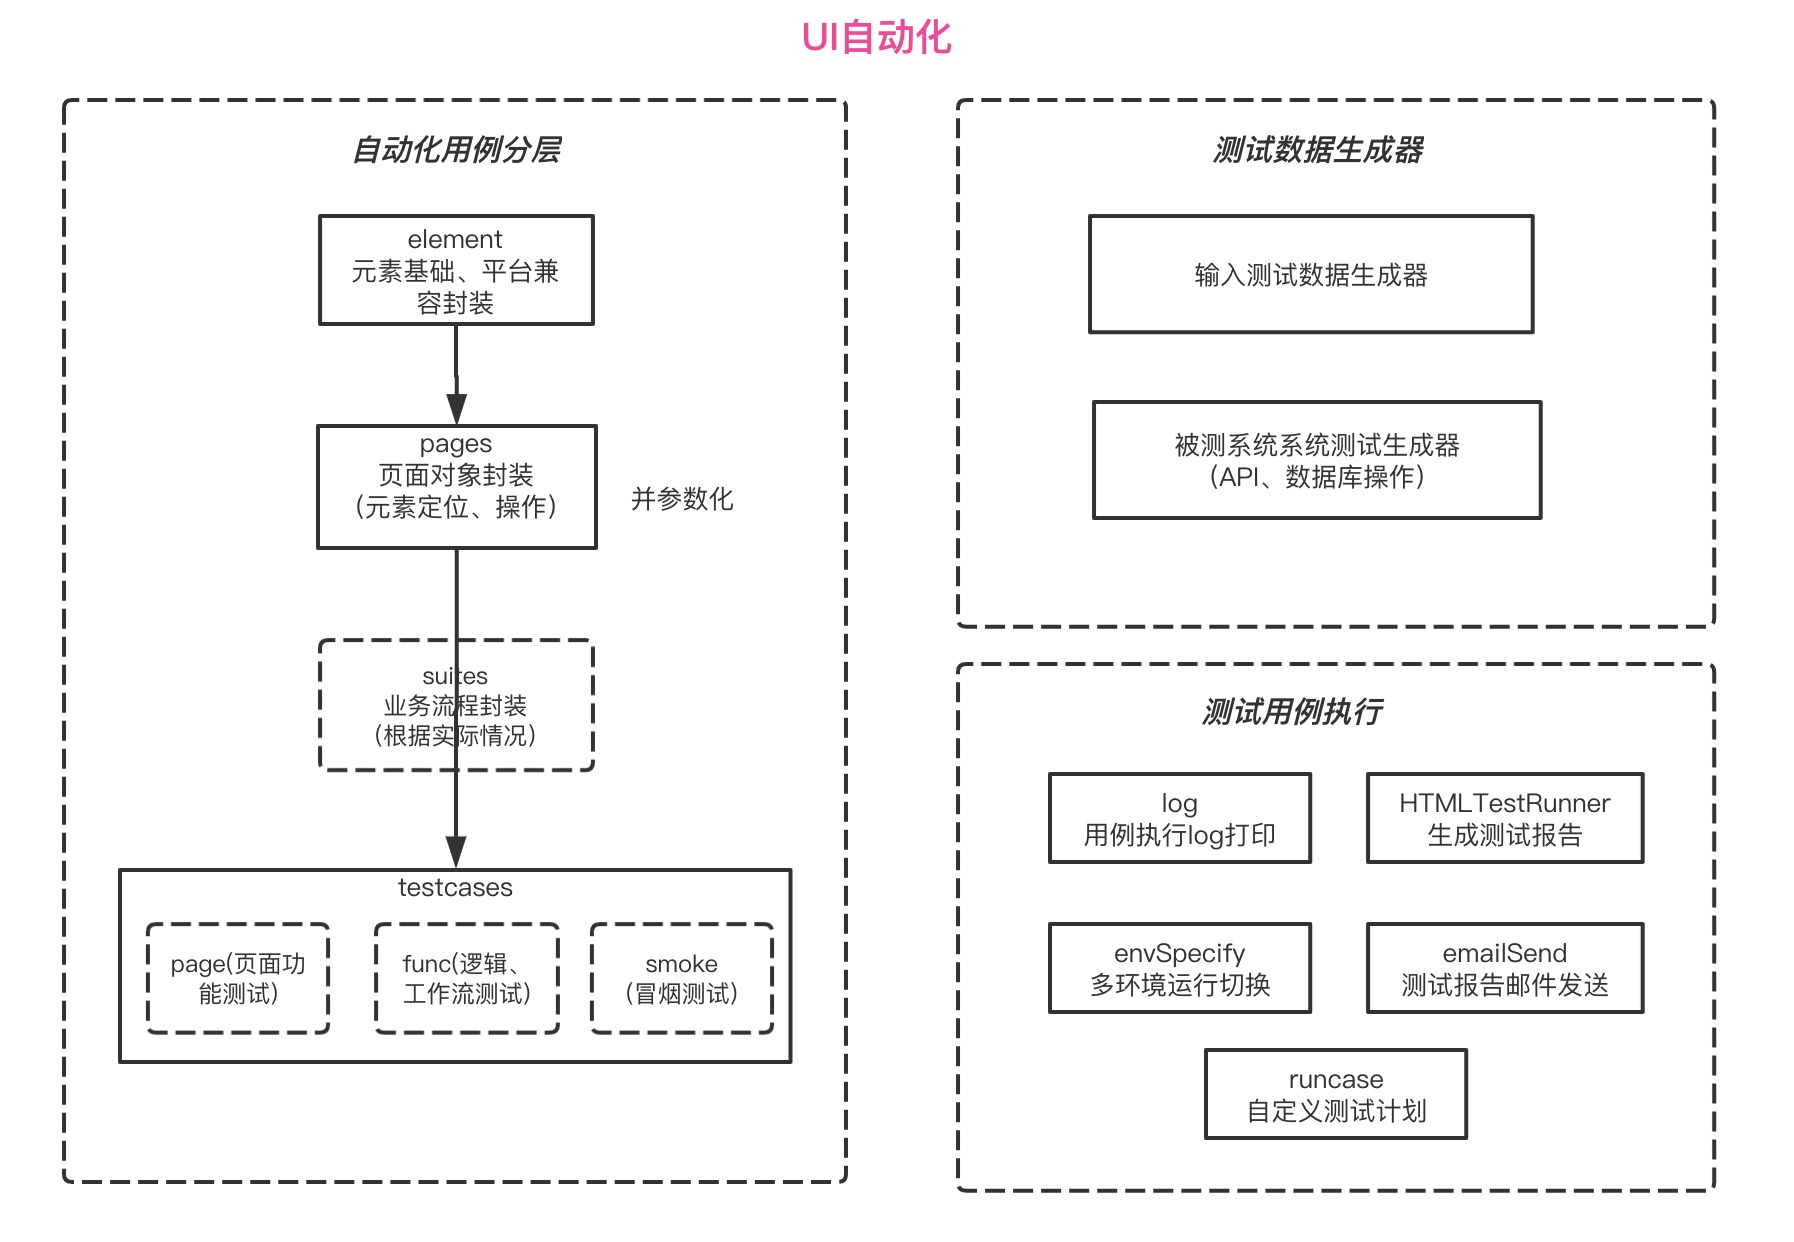
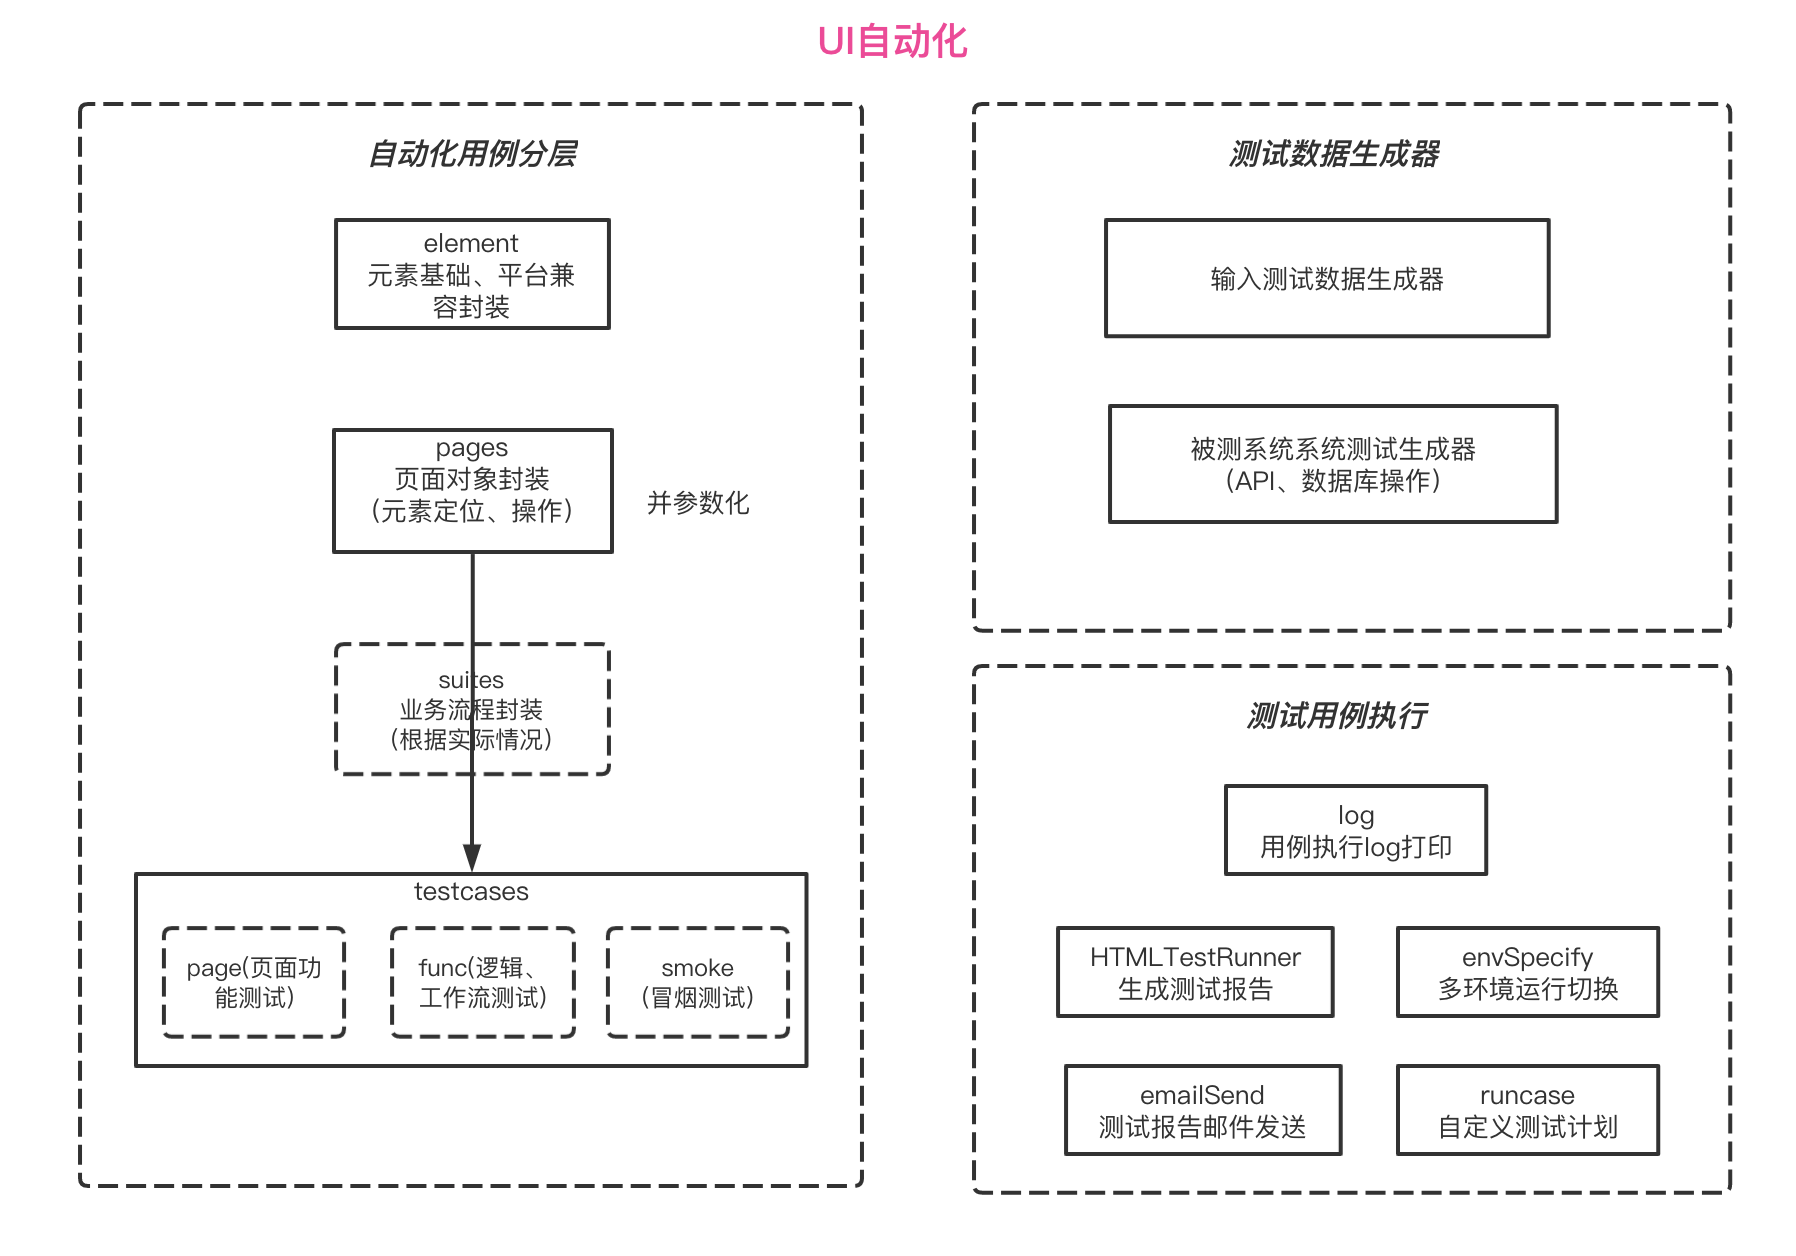
upadte

diff --git a/common/__init__.py b/common/__init__.py
@@ -1,59 +1,90 @@
 # -*- coding: utf-8 -
 import os
-
+import yaml
 cur_path = os.path.dirname(os.path.dirname(os.path.realpath(__file__)))
+
+
+class File:
+    def __init__(self, path):
+        self.path = path
+
+    def read_yaml_file(self):
+        with open(self.path, 'r', encoding='utf-8') as file:
+            # 使用load方法将读出的字符串转字典
+            content = yaml.full_load(file)
+            file.close()
+        return content
+
+    def create_yaml_file(self, content):
+        # 判断文件是否存在，不存在则创建，并填写默认值
+        if not os.path.exists(self.path):
+            with open(self.path, 'w', encoding='utf-8') as file:
+                # 写入内容
+                file.write(content)
+            file.close()
+
+    def create_file(self):
+        # 判断文件是否存在，不存在则创建
+        if not os.path.exists(self.path):
+            os.mkdir(self.path)
+
+
+# 测试结果文件存储位置
 result_path = os.path.join(cur_path, "result")
 logs_path = os.path.join(result_path, 'logs')
 reports_path = os.path.join(result_path, "reports")
-
-# 如果不存在这个result文件夹，就创建一个
-if not os.path.exists(result_path):
-    os.mkdir(result_path)
-# 如果没有result/logs文件夹，就创建一个
-if not os.path.exists(logs_path):
-    os.mkdir(logs_path)
-# 如果没有result/reports文件夹，就创建一个
-if not os.path.exists(reports_path):
-    os.mkdir(reports_path)
-
+# 配置文件位置
 config_path = os.path.join(cur_path, 'config')
 env_yaml_path = os.path.join(config_path, 'env.yaml')
 email_yaml_path = os.path.join(config_path, 'email.yaml')
 android_path = os.path.join(config_path, 'android.yaml')
 
-# 如果没有config文件夹，就创建一个
-if not os.path.exists(config_path):
-    os.mkdir(config_path)  # 创建config文件夹
+# 判断以上文件夹是否存在，不存在则创建
+for path in [result_path, logs_path, reports_path, config_path]:
+    File(path).create_file()
 
-# 如果没有config/email.yaml,自动创建并写入默认值
-if not os.path.exists(email_yaml_path):
-    with open(email_yaml_path, 'w', encoding='utf-8') as file:
-        file.write("# 邮箱配置\nemail_info:\n"
-                   "  server: xxx.xxx.xxx\n"
-                   "  sender: xxx@xxxxxx.com\n"
-                   "  password: xxxxxx\n"
-                   "  receiver: ['xxx@xxxxxx.com','xxx@xxxxxx.com']")
-    file.close()
+# 配置文件默认值
+email_yaml_content = "# 邮箱配置\nemail_info:\n" \
+                     "  server: xxx.xxx.xxx\n  sender: xxx@xxxxxx.com\n" \
+                     "  password: xxxxxx\n  receiver: ['xxx@xxxxxx.com','xxx@xxxxxx.com']"
+env_yaml_content = "# host环境IP\nhost: http://xxx.xx.x.xx\n" \
+                   "# mysql服务信息\nmysql_info:\n  ip: xxxx\n  port: 3306\n  account: xxxx\n  password: xxxx\n" \
+                   "# mongodb服务信息\nmongodb_info:\n  ip: xxxx\n  port: 27017\n  account: xxxx\n  password: xxxx\n"
+android_yaml_content = "app_info:\n" \
+                       "  # APP名称\n  appName: xxx\n" \
+                       "  # APP包名\n  appPackage: xxx\n" \
+                       "  # APP程序名\n  appActivity: xxx\n" \
+                       "device_info:\n" \
+                       "  # 设备版本号\n  platformVersion: 6.0\n" \
+                       "  # 设备id\n  deviceName: 192.168.58.104:5555\n" \
+                       "appium_info:\n" \
+                       "  #appium所在ip以及端口号\n  appiumIp: http://127.0.0.1:4723/wd/hub\n"
 
+# 判断以上文件夹是否存在，不存在则创建，并且填充默认值
+yaml_file = [{"path": email_yaml_path, "content": email_yaml_content},
+             {"path": env_yaml_path, "content": env_yaml_content},
+             {"path": android_path, "content": android_yaml_content}]
+for file in yaml_file:
+    File(file['path']).create_yaml_file(file['content'])
 
-# 如果没有config/env.yaml,自动创建并写入默认值
-if not os.path.exists(env_yaml_path):
-    with open(env_yaml_path, 'w', encoding='utf-8') as file:
-        file.write('# host环境IP\nhost: http://xxx.xx.x.xx\n'
-                   '# mysql服务信息\nmysql_info:\n  ip:xxxx\n  port: 3306\n  account: xxxx\n  password: xxxx\n'
-                   '# mongodb服务信息\nmongodb_info:\n  ip:xxxx\n  port: 3306\n  account: xxxx\n  password: xxxx\n')
-    file.close()
+# 读取配置文件
+android_content = File(android_path).read_yaml_file()
+email_content = File(email_yaml_path).read_yaml_file()
+env_content = File(env_yaml_path).read_yaml_file()
 
+# 邮箱信息
+email_info = email_content['email_info']
 
-if not os.path.exists(android_path):
-    with open(android_path, 'w', encoding='utf-8') as file:
-        file.write('app_info:\n'
-                   '  # APP名称\n  appName: xxx\n'
-                   '  # APP包名\n  appPackage: xxx\n'
-                   '  # APP程序名\n  appActivity: xxx\n'
-                   'device_info:\n'
-                   '  # 设备版本号\n  platformVersion: 6.0\n'
-                   '  # 设备id\n  deviceName: 192.168.58.104:5555\n'
-                   'appium_info:\n'
-                   '  #appium所在ip以及端口号\n  appiumIp: http://127.0.0.1:4723/wd/hub\n')
-    file.close()
+# APP信息
+app_info = android_content['app_info']
+# 设备信息
+device_info = android_content['device_info']
+# appium信息
+appium_info = android_content['appium_info']
+
+# host地址
+host = env_content['host']
+# mysql数据库信息
+mysql_info = env_content['mysql_info']
+# mongodb信息
+mongodb_info = env_content['mongodb_info']

diff --git a/features/element/baseView.py b/features/element/baseView.py
@@ -1,19 +1,15 @@
 # -*- coding: utf-8 -
-import os
 import sys
 import time
 from time import sleep
 from common import *
-from common.logger import Log
+from common.log.logger import Log
 from selenium.webdriver.common.by import By
 from selenium.webdriver import ActionChains
 from selenium.webdriver.common.keys import Keys
 from selenium.webdriver.support.ui import Select
 from selenium.webdriver.support.wait import WebDriverWait
-from selenium.webdriver.support import expected_conditions
 from selenium.common.exceptions import NoSuchElementException
-from appium.webdriver.common.touch_action import TouchAction
-from appium.webdriver.common.multi_action import MultiAction
 
 
 class View(object):

diff --git a/common/getDriver.py b/common/getDriver.py
@@ -3,8 +3,8 @@ import time
 from selenium import webdriver as selenium_webdriver
 from appium import webdriver as appium_webdriver
 from selenium.webdriver.chrome.options import Options
-from common.readConfig import *
-from common.logger import Log
+from common import *
+from common.log.logger import Log
 log = Log(logs_path, '%s.log' % time.strftime('%Y-%m-%d'))
 cur_path = os.path.dirname(os.path.dirname(os.path.realpath(__file__)))
 

diff --git a/main.py b/main.py
@@ -1,8 +1,7 @@
 # -*- coding: utf-8 -
 import argparse
-from runcase.envSpecify import EnvSpecify
-from runcase.emailSend import EmailSend
-from runcase.runcase import RunCase
+from common.run.envSpecify import EnvSpecify
+from common.run.runcase import RunCase
 
 
 parser = argparse.ArgumentParser()

diff --git a/common/run/runcase.py b/common/run/runcase.py
@@ -2,7 +2,7 @@
 import time
 import unittest
 from common import *
-from runcase.htmlTestRunner import HTMLTestRunner
+from common.run.htmlTestRunner import HTMLTestRunner
 # from tomorrow import threads
 
 

diff --git a/common/run/emailSend.py b/common/run/emailSend.py
@@ -2,7 +2,7 @@
 import smtplib
 from email.mime.text import MIMEText
 from email.header import Header
-from common.readConfig import *
+from common import *
 
 
 class EmailSend:

diff --git a/data/dbOperation/public.py b/data/dbOperation/public.py
@@ -2,7 +2,7 @@
 import pymysql
 import pymongo
 from urllib import parse
-from common.readConfig import *
+from common import *
 
 
 def execute_mysql(sql):

diff --git a/readme.md b/readme.md
@@ -38,15 +38,18 @@ TestCase拼接为简单关键字驱动模式，使用动作的函数名或类型
 
 ## 项目结构详细介绍
 
-![](https://github.com/fengyibo963/DemoUITest/blob/master/docs/%E9%A1%B9%E7%9B%AE%E7%9B%AE%E5%BD%95.png)
-
 ```
 |-- common      # 基础通用方法，使用过程中基本无需修改（可以二次开发自行拓展）
-|    -- __init__.py  # 所有需要自动创建的文件和默认文件
-|    -- dataType.py  # 字符格式转换,同一封装使用
+|    -- log      # log打印
+|        -- logger.py  # 功能测试log输出配置
+|        -- loggerLocust.py  # Locust性能测试log输出配置
+|    -- run      # 运行用例的方法
+|        -- emailSend.py  # 测试执行后的邮件发送配置(收件人配置)
+|        -- envSpecify.py  # env环境切换方法
+|        -- htmlTestRunner.py  # unittest测试执行生成测试报告的报告文件
+|        -- runCase.py     # 通过参数执行任一测试用例或测试用例集
+|    -- __init__.py  # 所有需要自动创建的文件和默认文件、读取环境变量
 |    -- getDriver.py  # 启动浏览器、APP获取driver
-|    -- logger.py  # 功能测试log输出配置
-|    -- readConfig.py  # 读取环境变量
 |-- config
 |    -- android.yaml  # 安卓设备的配置文件
 |    -- email.yaml  # 邮件发送邮箱配置
@@ -76,11 +79,6 @@ TestCase拼接为简单关键字驱动模式，使用动作的函数名或类型
 |        -- page_xxxxxxx  # 某产品线页面测试用例
 |        -- smokec_xxxxxxx  # 某产品线冒烟测试用例
 |            -- xxx_test.py  # 测试用例文件
-|-- runcase      # 运行用例的方法
-|    -- emailSend.py  # 测试执行后的邮件发送配置(收件人配置)
-|    -- envSpecify.py  # env环境切换方法
-|    -- htmlTestRunner.py  # unittest测试执行生成测试报告的报告文件
-|    -- runCase.py     # 通过参数执行任一测试用例或测试用例集
 |-- main.py    # 自动化框架执行入口
 |-- requirements.txt    # 该文件记录所有需要用的框架（以便更换环境一键安装）
 ```
